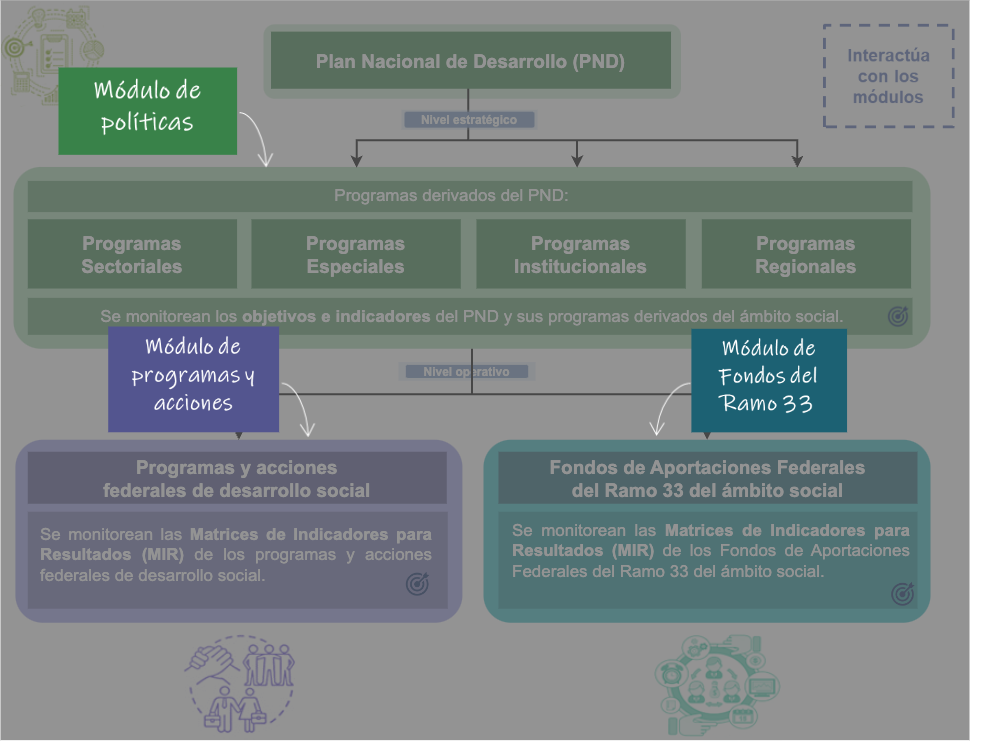
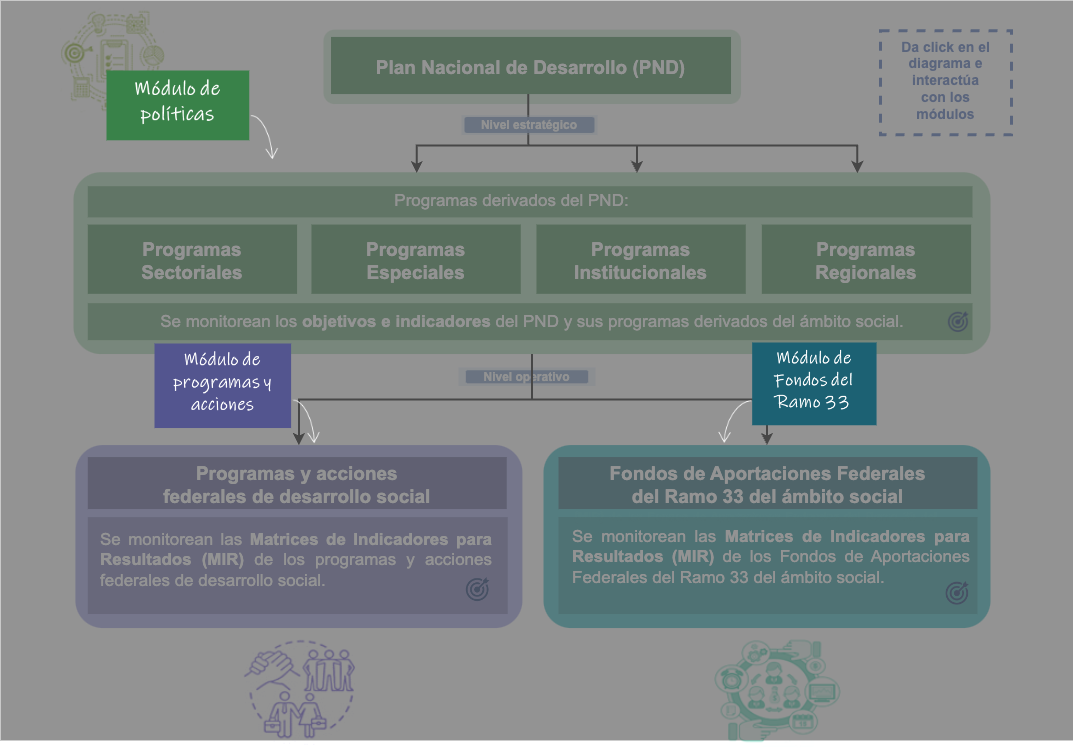
Modificaciones
Visuales del diagrama y responsivo

Changed region(s): [[0.0, 0.0, 0.9291, 1.0], [0.8052, 0.0, 1.0, 1.0], [0.5265, 0.8313, 0.8981, 1.0]]

diff --git a/src/app/base/diagrama-pnd/diagrama-pnd.component.html b/src/app/base/diagrama-pnd/diagrama-pnd.component.html
@@ -1,4 +1,4 @@
-<div class="d-flex justify-content-center w-100">
+<div class="w-100">
     <div class="text-right info ">
         <button (click)="mascara()" class="btn">
             <svg xmlns="http://www.w3.org/2000/svg" width="26" height="26" fill="currentColor" class="bi bi-info-circle"
@@ -10,7 +10,7 @@
         </button>
     </div>
 </div>
-<div class="mascara" *ngIf="mostrarMascara && !mostrarMovil">
+<div class="mascara" *ngIf="mostrarMascara && !mostrarMovil" width="742">
 </div>
 <svg xmlns="http://www.w3.org/2000/svg" xmlns:xlink="http://www.w3.org/1999/xlink" version="1.1" width="959px"
     height="742px" viewBox="-0.5 -0.5 959 742" *ngIf="!mostrarMascara && !mostrarMovil">
@@ -350,20 +350,27 @@
     </switch>
 </svg>
 
-<div class="container" *ngIf="mostrarMovil">
+<div class="container vistaMovil" *ngIf="mostrarMovil">
     <div class="tituloDiagrama m-2">Interactua con los módulos</div>
     <div class="row tituloPnd m-2">
-        <div class="col-12 tituloPndrow">
+        <div class="tituloPndrow">
             Plan Nacional de Desarrollo (PND)
         </div>
     </div>
+    <div class="row nivel">
+        <div class="nivelTexto">
+            Nivel estratégico
+        </div>
+    </div>
+    <i class="bi bi-chevron-compact-down"></i>
+
     <div class="row pnd m-2" [ngStyle]="{'height':ocultarSecciones[0] ? '300px':'70px'}">
-        <div class="col-12 PndrowTitulo" (click)="mostrarSeccion(0)">
-            <i class="bi bi-chevron-compact-down float-right fs-3" *ngIf="!ocultarSecciones[0]"></i>
-            <i class="bi bi-chevron-compact-up float-right fs-3" *ngIf="ocultarSecciones[0]"></i>
+        <div class="PndrowTitulo" (click)="mostrarSeccion(0)">
+            <i class="bi bi-chevron-down float-right fs-3" *ngIf="!ocultarSecciones[0]"></i>
+            <i class="bi bi-chevron-up float-right fs-3" *ngIf="ocultarSecciones[0]"></i>
             Programas dericados del PND
         </div>
-        <div class="col-12 Pndrow" *ngIf="ocultarSecciones[0]" >
+        <div class="Pndrow" *ngIf="ocultarSecciones[0]" >
             <p>Se monitorean los objetivos e indicadores de los programas derivados del PND. Los programas derivados son los siguiens:</p>
             <ul>
               <li>Programas Sectoriales</li>
@@ -373,23 +380,30 @@
             </ul>
         </div>
     </div>
-    <div class="row federales m-2" [ngStyle]="{'height':ocultarSecciones[1] ? '150px':'70px'}">
-        <div class="col-12 federalesTitulo" (click)="mostrarSeccion(1)">
-            <i class="bi bi-chevron-compact-down float-right fs-3" *ngIf="!ocultarSecciones[1]"></i>
-            <i class="bi bi-chevron-compact-up float-right fs-3" *ngIf="ocultarSecciones[1]"></i>
+    <div class="row nivel">
+        <div class="nivelTexto">
+            Nivel operativo
+        </div>
+    </div>
+    <i class="bi bi-chevron-compact-down"></i>
+
+    <div class="row federales m-2" [ngStyle]="{'height':ocultarSecciones[1] ? '200px':'70px'}">
+        <div class="federalesTitulo" (click)="mostrarSeccion(1)">
+            <i class="bi bi-chevron-down float-right fs-3" *ngIf="!ocultarSecciones[1]"></i>
+            <i class="bi bi-chevron-up float-right fs-3" *ngIf="ocultarSecciones[1]"></i>
             Programas y acciones federales de desarrollo social
         </div>
-        <div class="col-12 federalesContenido" *ngIf="ocultarSecciones[1]" >
+        <div class="federalesContenido" *ngIf="ocultarSecciones[1]" >
             <p>Se monitorean las <strong>Matrices de Indicadores para Resultados (MIR)</strong> de los programas y acciones federales de desarrollo social.</p>
         </div>
     </div>
-    <div class="row ramo33 m-2" [ngStyle]="{'height':ocultarSecciones[2] ? '150px':'70px'}">
-        <div class="col-12 ramo33Titulo" (click)="mostrarSeccion(2)">
-            <i class="bi bi-chevron-compact-down float-right fs-3" *ngIf="!ocultarSecciones[2]"></i>
-            <i class="bi bi-chevron-compact-up float-right fs-3" *ngIf="ocultarSecciones[2]"></i>
+    <div class="row ramo33 m-2" [ngStyle]="{'height':ocultarSecciones[2] ? '200px':'70px'}">
+        <div class="ramo33Titulo" (click)="mostrarSeccion(2)">
+            <i class="bi bi-chevron-down float-right fs-3" *ngIf="!ocultarSecciones[2]"></i>
+            <i class="bi bi-chevron-up float-right fs-3" *ngIf="ocultarSecciones[2]"></i>
             Fondos de Aportaciones Federales del Ramo 33 del ámbito social
         </div>
-        <div class="col-12 ramo33Contenido" *ngIf="ocultarSecciones[2]" >
+        <div class="ramo33Contenido" *ngIf="ocultarSecciones[2]" >
             <p>Se monitorean las <strong>Matrices de Indicadores para Resultados (MIR)</strong> de los Fondos de Aportaciones Federales del Ramo 33 del ámbito social.</p>
         </div>
     </div>

diff --git a/src/app/base/inicio/inicio.component.html b/src/app/base/inicio/inicio.component.html
@@ -1,4 +1,4 @@
-<div class="position-fixed d-flex flex-column w-100">
+<div class="position-fixed w-100">
     <div class="container-fluid px-0 d-flex flex-column flex-md-row flex-lg-row flex-xl-row flex-xxl-row">
         <div id="divOcultarRedes" class="social-icons redesInternas">
             <a class="img-red" [href]="red?.url" *ngFor="let red of redes"><img [src]="red?.img" [alt]="red?.alt"
@@ -33,7 +33,7 @@
         </div>
     </div>
 </div>
-<div class="m-auto d-flex justify-content-center w-100" (wheel)="obtenerPosicion()">
+<div class="m-auto w-100 contendorInicial" (wheel)="obtenerPosicion()">
     <div class="h-75 overflow separador">
         <table class="table table-borderless mt-4">
             <caption></caption>
@@ -75,7 +75,7 @@
                 </tr>
             </tbody>
         </table>
-        <img [src]="'assets/img/Linea-Coneval.png'" class="mx-auto d-block" id="pnd" />
+        <img [src]="'assets/img/Linea-Coneval.png'" class="mx-auto d-block separadorConeval" id="pnd" />
         <table class="table table-borderless">
             <caption></caption>
             <tbody class="text-center">
@@ -86,7 +86,7 @@
                 </tr>
             </tbody>
         </table>
-        <img [src]="'assets/img/Linea-Coneval.png'" class="mx-auto d-block" id="simeps" />
+        <img [src]="'assets/img/Linea-Coneval.png'" class="mx-auto d-block separadorConeval" id="simeps" />
         <table class="table table-borderless mt-2">
             <caption></caption>
             <tbody>
@@ -101,7 +101,7 @@
                         </div>
                         <br />
                         <div class="text-center">
-                            <iframe [width]="anchoPantalla / 2" height="315"
+                            <iframe width="50%" height="315"
                                 src="https://www.youtube.com/embed/VRosxIwBjt0?si=2u6-hLaehQ9GdC7s"
                                 title="YouTube video player" frameborder="0"
                                 allow="accelerometer; autoplay; clipboard-write; encrypted-media; gyroscope; picture-in-picture; web-share"

diff --git a/src/app/base/diagrama-pnd/diagrama-pnd.component.scss b/src/app/base/diagrama-pnd/diagrama-pnd.component.scss
@@ -5,7 +5,7 @@
 }
 
 .mascara {
-  width: 995px;
+  width: 100%;
   height: 742px;
   background-image: url("../../../assets/img/mascara.png");
   //background: rgba(0,0,0,0.5);
@@ -42,12 +42,12 @@
 }
 .federales{
   background-color: rgb(130,133,224,.80);
-  height: 150px;
+  height: 200px;
   color: white;
 }
 .ramo33{
   background-color: rgb(23,176,186,.9);
-  height: 150px;
+  height: 200px;
   color: white;
 }
 
@@ -93,7 +93,7 @@ ul{list-style: none;}
 .federalesContenido{
   background-color: rgb(83,85,143,100);
   width: 95%;
-  height: 50px;
+  height: 100px;
   margin: auto;
   padding: 1%;
   border-radius: 5px;
@@ -101,10 +101,22 @@ ul{list-style: none;}
 .ramo33Contenido{
   background-color: rgb(28,97,115,100);
   width: 95%;
-  height: 60px;
+  height: 100px;
   margin: auto;
   padding: 1%;
   border-radius: 5px;
+}
+
+.nivel{
+  width: 30%;
+  margin: auto;
+  background-color: #A9C4EB;
+}
+.nivelTexto{
+  background-color: #6A8CBD;
+  color: white;
+  width: 90%;
+  margin: auto;
 }
 
 .imagen {

diff --git a/src/app/app.component.ts b/src/app/app.component.ts
@@ -1,4 +1,6 @@
 import { Component } from '@angular/core';
+import { Meta } from '@angular/platform-browser';
+import { DataDynamic } from './base/services/dinamic-data.services';
 
 @Component({
   selector: 'app-root',
@@ -6,5 +8,26 @@ import { Component } from '@angular/core';
   styleUrls: ['./app.component.css']
 })
 export class AppComponent {
-  title = 'simepsv2-front-end';
+  title = 'SIMEPS';
+  tags:any;
+
+  constructor(private meta: Meta,private servicio:DataDynamic){
+    this.consultarTags();
+   }
+
+  consultarTags(){
+    this.servicio.getInformacion().subscribe(
+      res=>{
+        this.tags = res.simeps?.metas;
+        this.addTags();
+      }
+    )
+   }
+
+   addTags(){
+    this.tags.forEach((tg: { name: any; content: any; }) => {
+      this.meta.addTag({ name: tg.name , content: tg.content});
+      console.log('add Meta')
+    });
+   }
 }

diff --git a/src/app/base/inicio/inicio.component.ts b/src/app/base/inicio/inicio.component.ts
@@ -19,20 +19,20 @@ export class InicioComponent {
   nombreSistema:any;
   coloresTitulos= ['#21409A','#00A94F','#21409A'];
   auxMascara = true;
-  anchoPantalla;
   fontSizeTitulo = '24px'
   fontSizeTituloNormal ="20px"
 
   constructor(private scroller: ViewportScroller,private base:ServicesBaseService,private servicio:DataDynamic,private breakpointObserver: BreakpointObserver) {
         this.consultarData();
-        this.anchoPantalla = getWindow().innerWidth;
-
         this.breakpointObserver.observe([
           "(max-width: 768px)"
         ]).subscribe((result: BreakpointState) => {
           if (result.matches) {
               this.fontSizeTitulo = '14px'
               this.fontSizeTituloNormal = '12px'
+          }else{
+            this.fontSizeTitulo = '24px'
+            this.fontSizeTituloNormal ="20px"
           }
         });
   }

diff --git a/src/app/base/inicio/inicio.component.scss b/src/app/base/inicio/inicio.component.scss
@@ -5,15 +5,6 @@
     margin-right: 1%;
   }
 
-  @media only screen and (max-width: 600px) {
-    .redesInternas {
-      width: 100%;
-      margin: auto;
-    }
-    .opcionPregunta{
-      font-size: 14px;
-    }
-  }
 
   .selectorOpcion{
     width: 30px;
@@ -25,9 +16,13 @@
     padding-top: 10px;
   }
   
-  .separador{
+.contendorInicial{
+  padding-top: 2%;
+}
+
+.separador{
     margin-top: 7%!important;
-  }
+}
   table{
     width: 90%;
     margin: auto;
@@ -73,4 +68,18 @@
     color:#17b0ba !important;
     font-weight: bold;
   }
-  
+  @media only screen and (max-width: 400px) {
+    .redesInternas {
+      width: 50%;
+      margin: auto;
+    }
+    .opcionPregunta{
+      font-size: 14px;
+    }
+    .contendorInicial{
+      padding-top: 25%;
+    }
+    .separadorConeval{
+      width: 100%;
+    }
+  }

diff --git a/src/index.html b/src/index.html
@@ -2,13 +2,14 @@
 <html lang="en">
 <head>
   <meta charset="utf-8">
-  <title>SIMEPS - Inicio</title>
+  <title>SIMEPS</title>
   <base href="/">
   <meta name="viewport" content="width=device-width, initial-scale=1">
   <link rel="icon" type="image/x-icon" href="favicon.ico">
 
   <!--Bootstrap-->
   <link href="https://cdn.jsdelivr.net/npm/bootstrap@5.2.3/dist/css/bootstrap.min.css" rel="stylesheet" crossorigin="anonymous" integrity="sha384-rbsA2VBKQhggwzxH7pPCaAqO46MgnOM80zW1RWuH61DGLwZJEdK2Kadq2F9CUG65">
+  <script src="https://cdn.jsdelivr.net/npm/bootstrap@5.0.2/dist/js/bootstrap.bundle.min.js" integrity="sha384-MrcW6ZMFYlzcLA8Nl+NtUVF0sA7MsXsP1UyJoMp4YLEuNSfAP+JcXn/tWtIaxVXM" crossorigin="anonymous"></script>
 
 
   <!-- Bootstrap icon -->

diff --git a/src/app/base/diagrama-pnd/diagrama-pnd.component.ts b/src/app/base/diagrama-pnd/diagrama-pnd.component.ts
@@ -19,7 +19,7 @@ export class DiagramaPndComponent {
   mostrarMascara:boolean = false;
   timeLeft: number = 5;
   interval:any;
-  mostrarMovil:boolean = true;
+  mostrarMovil:boolean = false;
   //nd:true,desarrollo:true,fondos:true
   ocultarSecciones = [false,false,false];
 
@@ -33,7 +33,7 @@ export class DiagramaPndComponent {
           console.log("aqui es movil");
           this.mostrarMovil = true;     
       } else {
-         console.log('escritorio')
+          this.mostrarMovil = false;   
       }
     });
   }
@@ -70,5 +70,4 @@ export class DiagramaPndComponent {
   mostrarSeccion(opcion:number){
     this.ocultarSecciones[opcion]=!this.ocultarSecciones[opcion];
   }
-
 }
